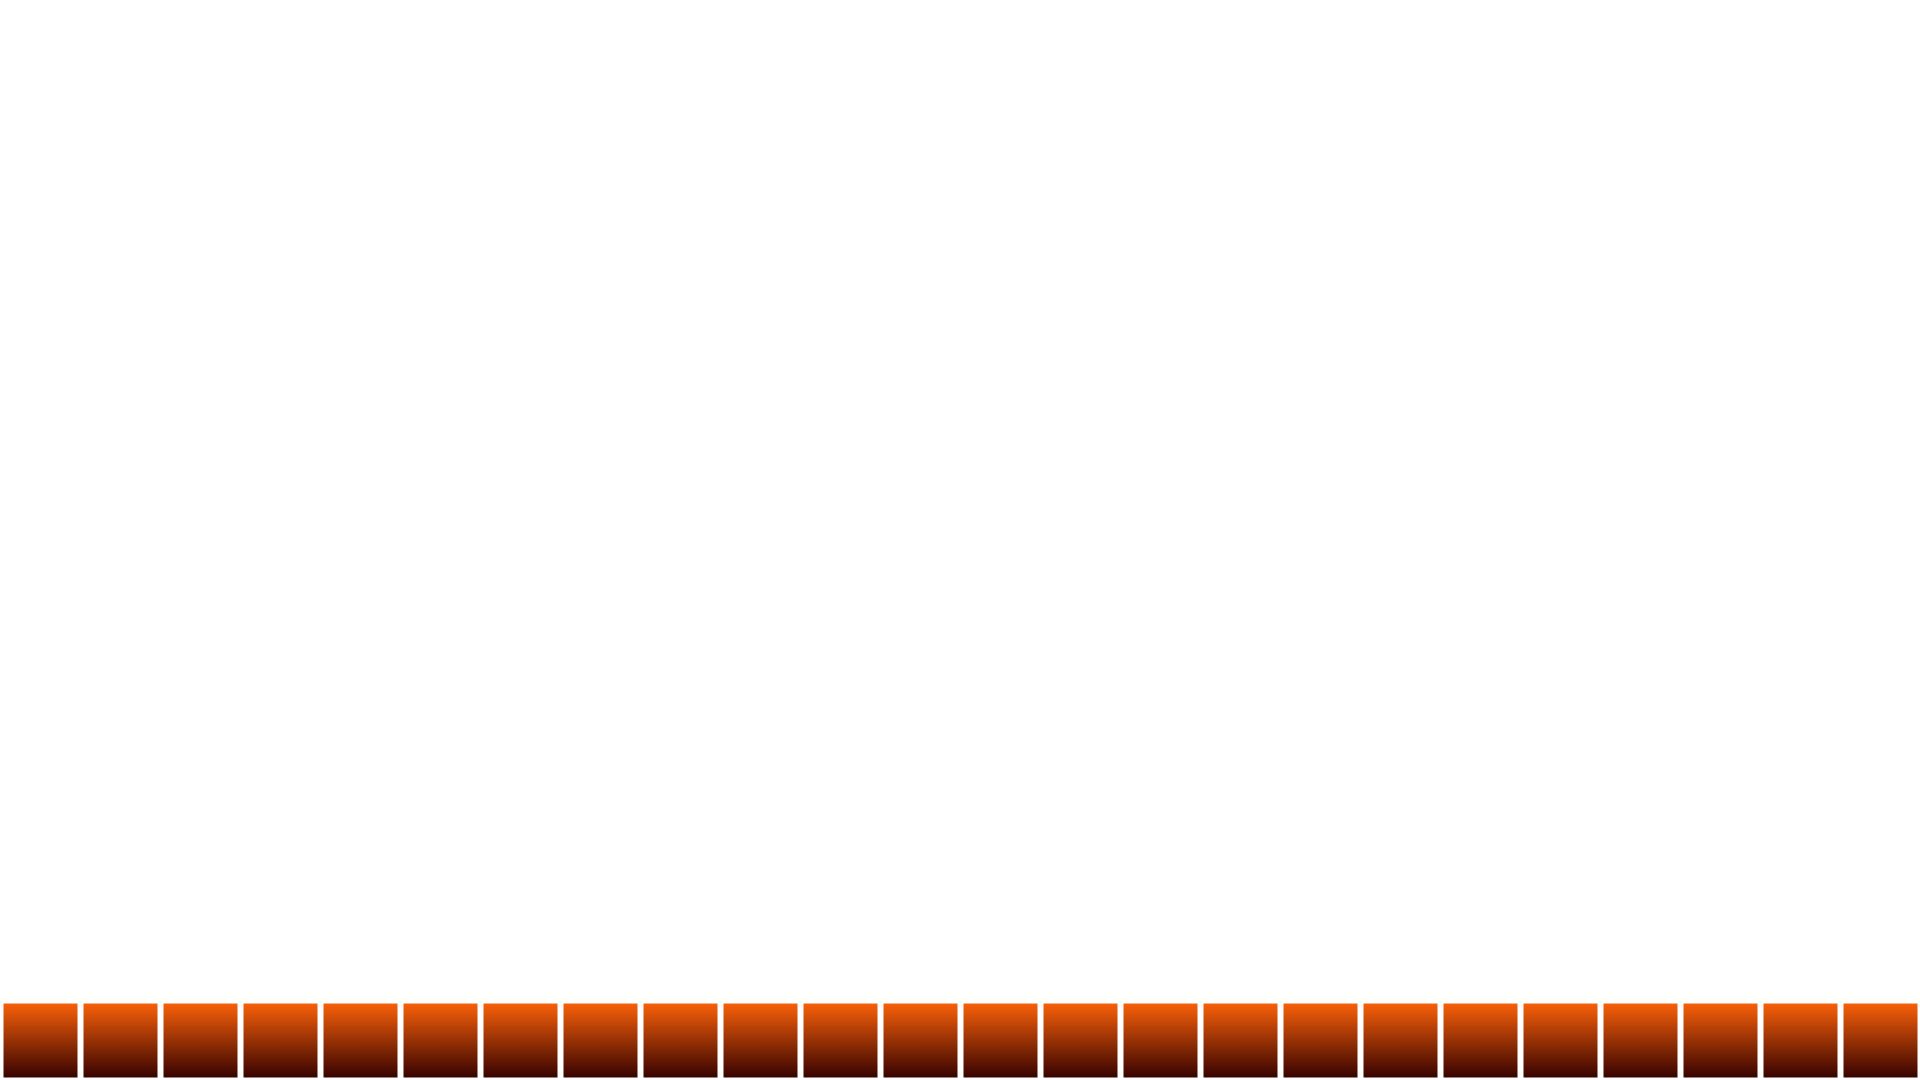
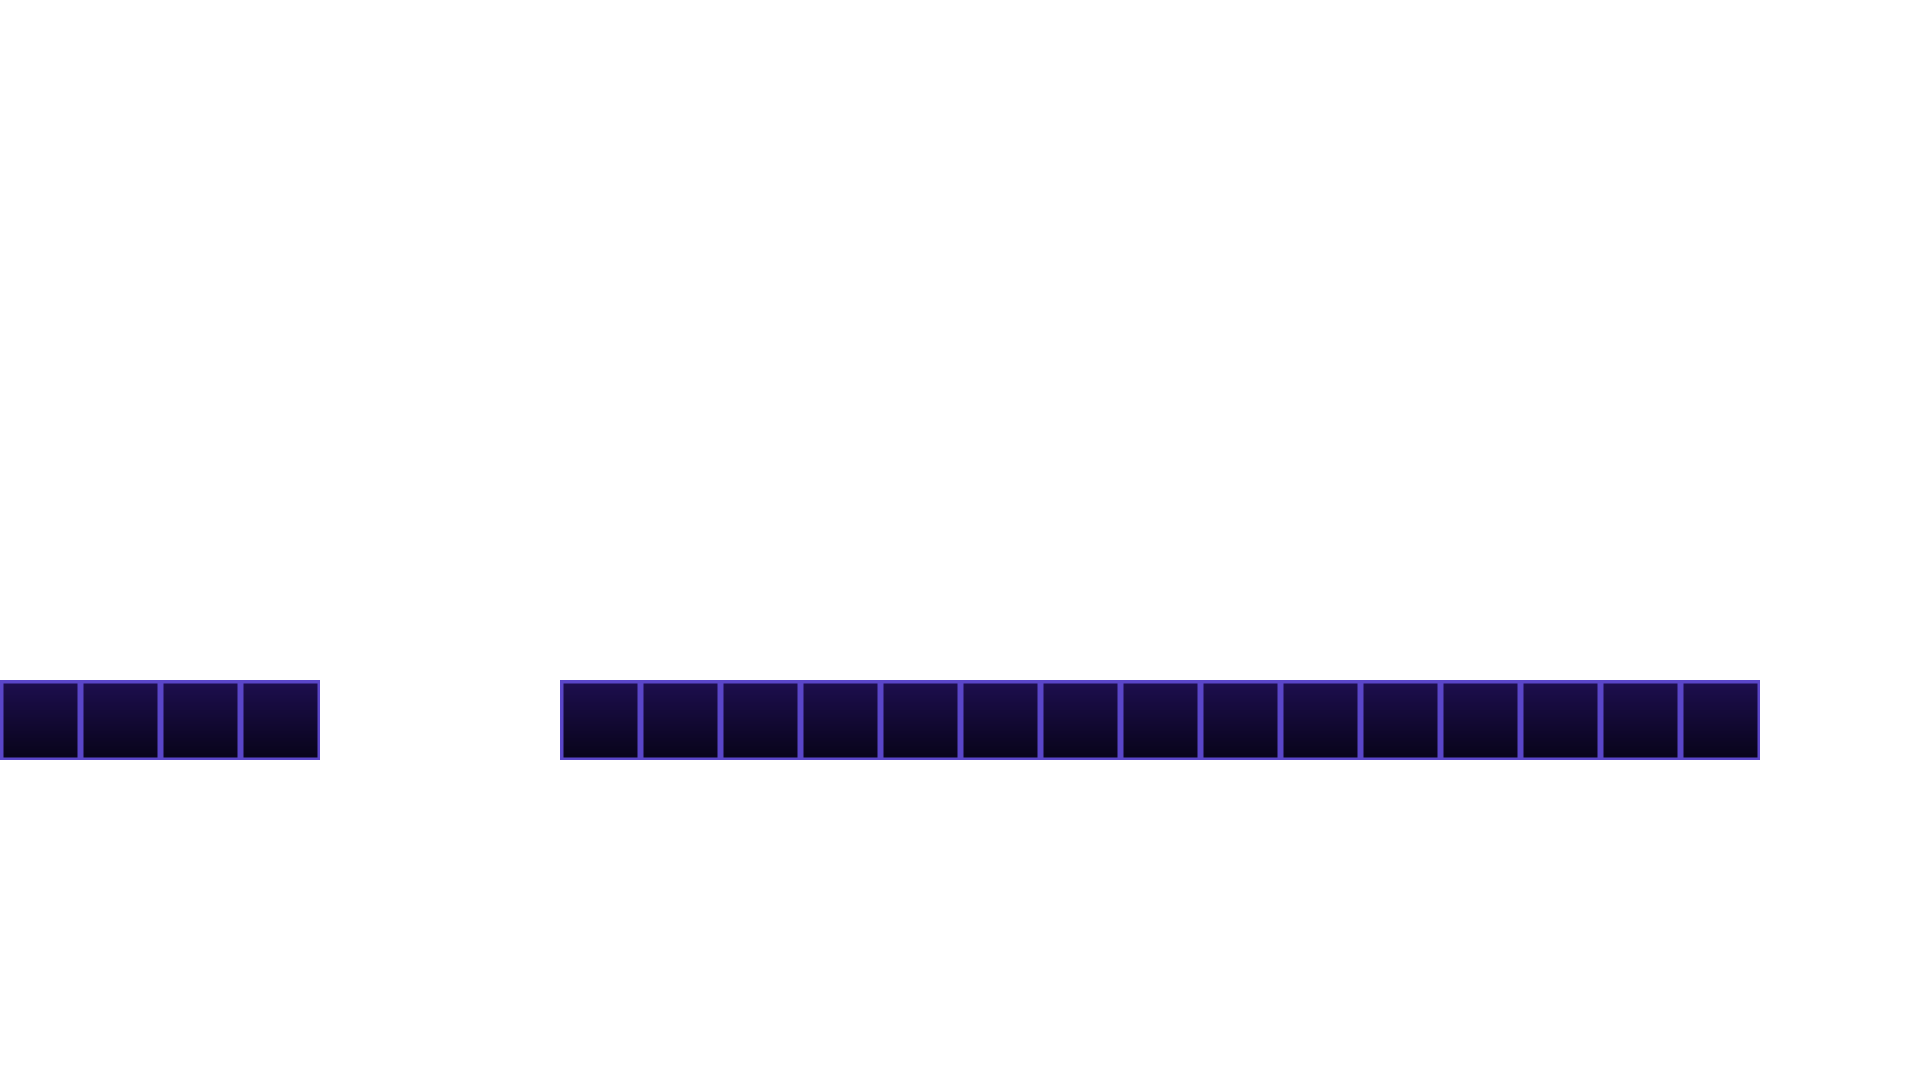
Level change

Changed region(s): [[0.0, 0.9167, 1.0, 1.0], [0.2812, 0.6111, 0.9375, 0.7028], [0.0, 0.6111, 0.1875, 0.7028]]

diff --git a/src/level/GameLevel.java b/src/level/GameLevel.java
@@ -228,17 +228,17 @@ public class GameLevel {
     );
     
     public static final String[] FINAL_DESTI = {
-            "                                                                                                                                                                                    ",
-            "                                                                                                                                                                                    ",
-            "                                                                                                                                                                                    ",
-            "                                                             V   V            V V        V      V V                    V       V                                                    ",
-            "                                                                                                                                                                                    ",
-            "                                                                                                                                                                                    ",
-            "                                      BBBBBBBBBBBBB   BBBBBBBBB^BBBBBBB    BBBBBBBBB   BBBBB^^BBBBBBB    BBBBBBBBB   BBBBB^BBBBBBBBB    BBBBBBBBBB                                  ",
-            "                               BBBBB                                                                                                              BBBBB                             ",
-            "                        BBBBB                                                                                                                          BBBBB                        ",
-            "                 BBBBB                                                                                                                                      BBBBB                   ",
-            "BBBBBBBBBBBBBBB                                                                                                                                                  BBBBBBBBBBBBBBBBBBB",
+            "                                                                                                                                                                                                                                                                                                                                                                                                                    ",
+            "                                                                                                                                                                                                                                                                                                                                                                                                                    ",
+            "                                                                   V                                                                                                                                                                                                                                                                                                                                                 ",
+            "                                                                                                    V   V         V         V                       V       V         BBBBB   BBBBB   BBBBB         V                                      V     V           V  V                               V      V                 V     V                                                                                   ",
+            "                                                                 B                                                                                                                                                                                                                                                                                                                                                   ",
+            "                                                              B  B   B                                                                                                                                                                                                                                                                                                                                                 ",
+            "                                      BBBBBBBBBBBBBBB   BBBBBBBBBBBB^BBBBBBB   BBBBBBBBBBBBBBB    BBBBBBBBBB   BBBBBBBB^^BBBBBBBB    BBBBBBBBBB   BBBBBBB^BBBBBBB    BBBBBBBB^BBBBBBB^BBBBBBBB   BBBBBBBBBB   BBBBBB^^BBBBBB    BBBBBB   BBBBBB^BBBBBB    BBBBBBBBBB   BBBBBBBBBBBBBBBBBBBB    BBBBB^^BBBBB   BBBBBB    BBBBB^BBBBB   BBBBBB^^BBBBBB    BBBBBBBBBBBBBBB                                             ",
+            "                               BBBBB                                                                                                                                                                                                                                                                                                                                   BBBBB                                        ",
+            "                        BBBBB                                                                                                                                                                                                                                                                                                                                               BBBBB                                   ",
+            "                 BBBBB                                                                                                                                                                                                                                                                                                                                                           BBBBB                              ",
+            "BBBBBBBBBBBBBBB                                                                                                                                                                                                                                                                                                                                                                       BBBBBBBBBBBBBBBBBBBBBBBBBB    ",
     };
 
     public static final GameLevel FINAL_DESTINATION = new GameLevel(
